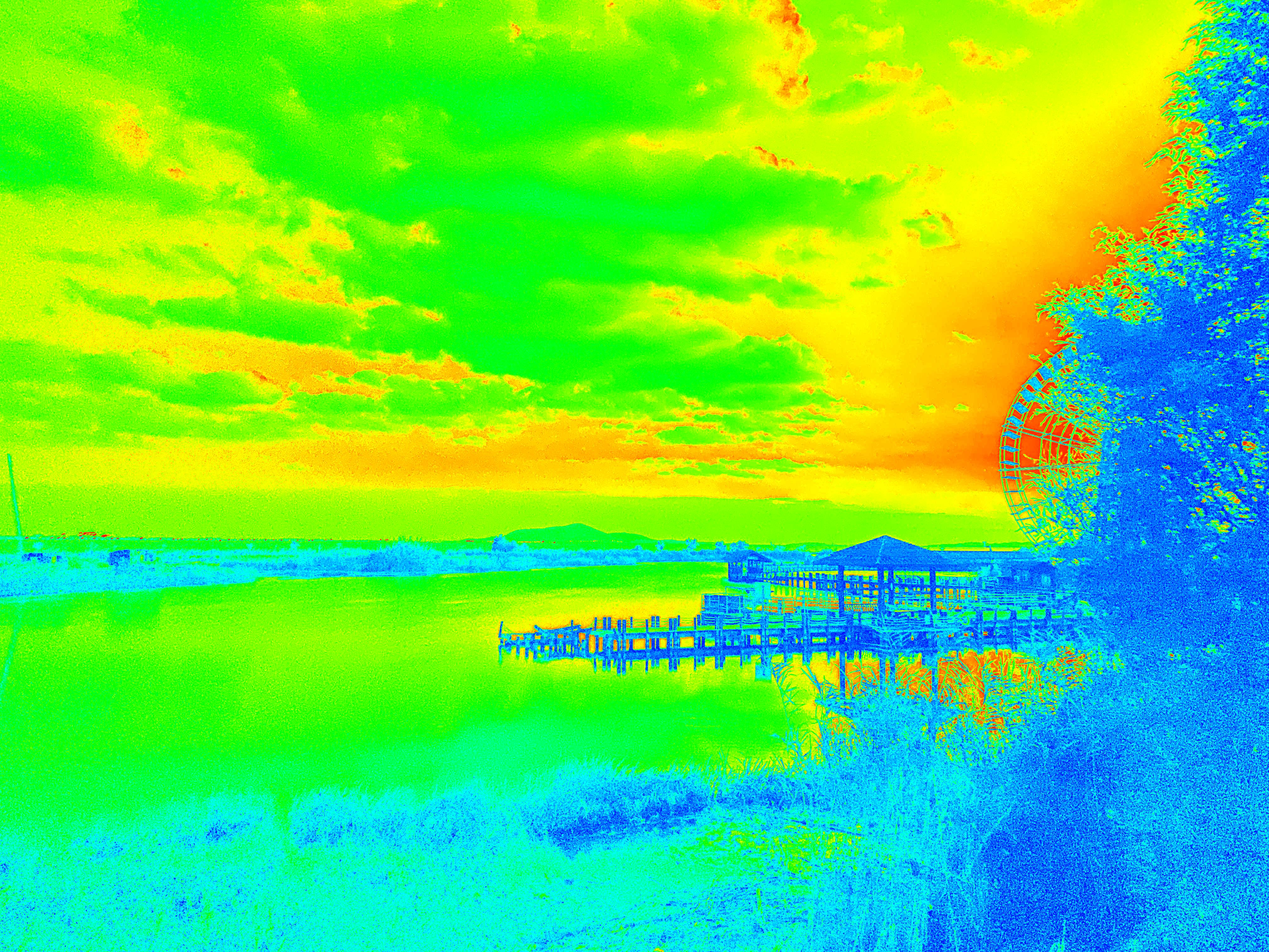
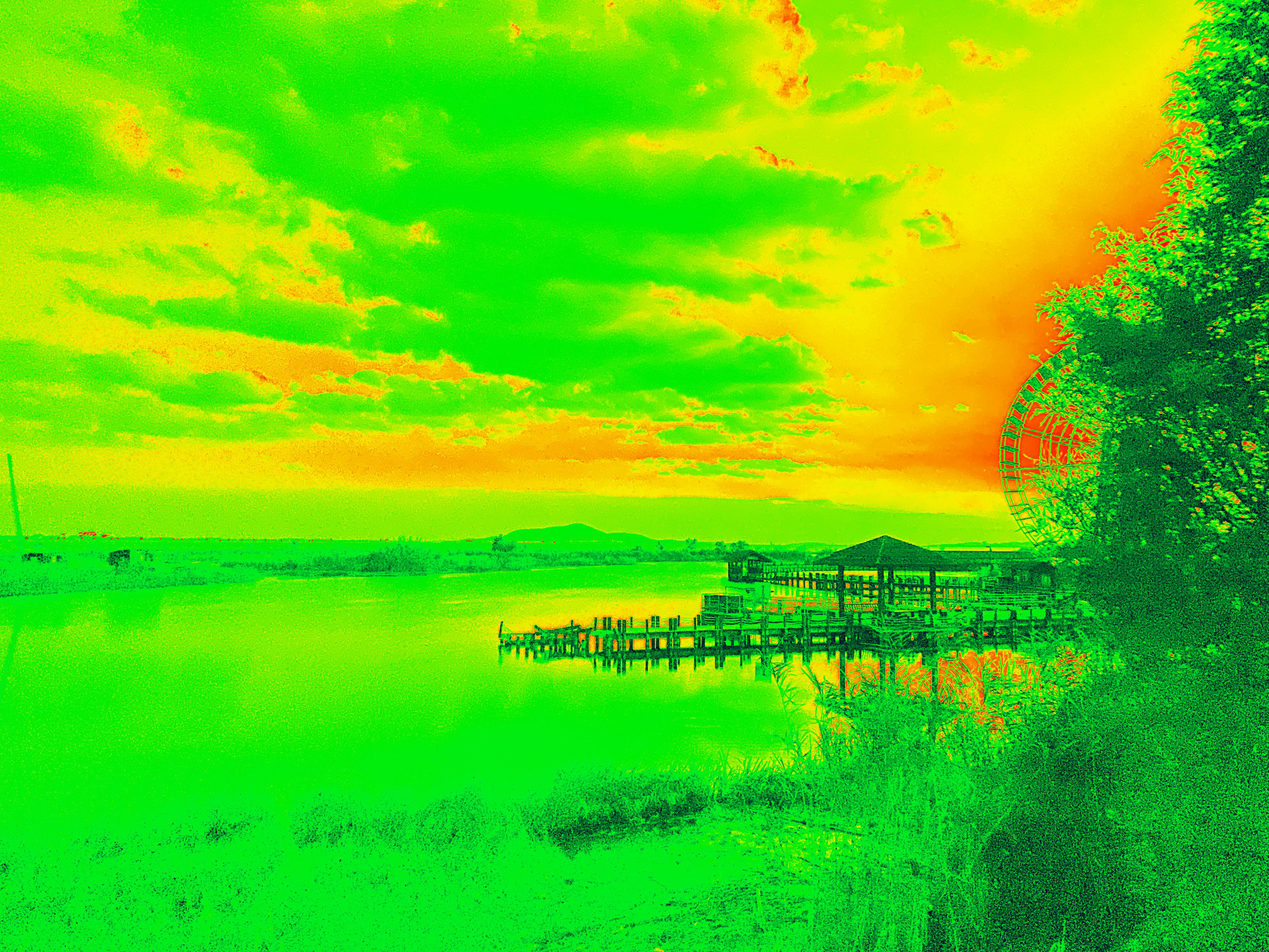
实现了灰度图转伪彩的各通道随机取值，注意不要每个像素点随机取值，否则生成的图像全是噪点

diff --git a/main.py b/main.py
@@ -19,20 +19,20 @@ if __name__ == '__main__':
     try:
         # 使用Image.open()函数打开图像
         with Image.open(colorImagePath) as img:
-            # 显示图像
-            img.show()
-
-            # 获取图像的大小（宽度和高度）
-            width, height = img.size
-
-            # 输出图像的大小信息
-            print(f"图像大小：宽度 = {width}像素, 高度 = {height}像素")
-
-            # 旋转图像
-            rotate_image(colorImagePath, 45)
-
-            # 缩放图像
-            resize_image(colorImagePath, 0.5, 1.2)
+            # # 显示图像
+            # img.show()
+            #
+            # # 获取图像的大小（宽度和高度）
+            # width, height = img.size
+            #
+            # # 输出图像的大小信息
+            # print(f"图像大小：宽度 = {width}像素, 高度 = {height}像素")
+            #
+            # # 旋转图像
+            # rotate_image(colorImagePath, 45)
+            #
+            # # 缩放图像
+            # resize_image(colorImagePath, 0.5, 1.2)
 
             # 彩图转灰度图
             color2grey(colorImagePath)
@@ -40,26 +40,26 @@ if __name__ == '__main__':
             # 灰度图转伪彩图
             grey2color(greyImagePath)
 
-            # 图像水平反转
-            flip_image_horizontal(colorImagePath)
-
-            # 图像垂直反转
-            flip_image_vertical(colorImagePath)
-
-            # 利用canny边缘检测器进行图像轮廓提取
-            extract_contours_canny(colorImagePath)
-
-            # 利用sobel算子进行图像轮廓提取
-            extract_contours_sobel(colorImagePath)
-
-            # 直方图均衡化
-            histogram_equalization(colorImagePath)
-    
-            # 均值滤波
-            mean_filter(colorImagePath, 25, 25)
-
-            # 高斯滤波
-            gaussian_filter(colorImagePath, 25, 25, 0)
+            # # 图像水平反转
+            # flip_image_horizontal(colorImagePath)
+            #
+            # # 图像垂直反转
+            # flip_image_vertical(colorImagePath)
+            #
+            # # 利用canny边缘检测器进行图像轮廓提取
+            # extract_contours_canny(colorImagePath)
+            #
+            # # 利用sobel算子进行图像轮廓提取
+            # extract_contours_sobel(colorImagePath)
+            #
+            # # 直方图均衡化
+            # histogram_equalization(colorImagePath)
+            #
+            # # 均值滤波
+            # mean_filter(colorImagePath, 25, 25)
+            #
+            # # 高斯滤波
+            # gaussian_filter(colorImagePath, 25, 25, 0)
     except FileNotFoundError:
         # 如果文件没有找到，打印错误信息
         print(f"错误：文件'{colorImagePath}'未找到，请检查路径是否正确。")

diff --git a/grey2Color.py b/grey2Color.py
@@ -1,11 +1,12 @@
 from PIL import Image
+import random as r
 
 
 # 定义一个函数，用于将灰度图转换为RGB类型的伪彩图像
 def grey2color(file_name):
     """
     将指定的灰度图像文件转换为RGB类型的伪彩图像。
-    伪彩图像将使用蓝色和红色通道来表示灰度值，而绿色通道保持不变。
+    伪彩图像将亮度低的映射为蓝色(冷色)，亮度高的映射为红色（暖色）
 
     参数:
     file_name (str): 灰度图像文件的路径。
@@ -20,6 +21,9 @@ def grey2color(file_name):
             rgb_img = Image.new('RGB', (width, height))
 
             # 遍历图像的每个像素
+            randR = r.random()
+            randG = r.random()
+            randB = r.random()
             for x in range(width):
                 for y in range(height):
                     # 获取灰度图像中当前像素的灰度值
@@ -49,7 +53,7 @@ def grey2color(file_name):
                         blue = 0
 
                     # 将映射后的RGB值赋给当前像素
-                    rgb_img.putpixel((x, y), (red, green, blue))
+                    rgb_img.putpixel((x, y), (int(red * randR), int(green * randG), int(blue * randB)))
 
             # 显示伪彩图像
             rgb_img.show()
